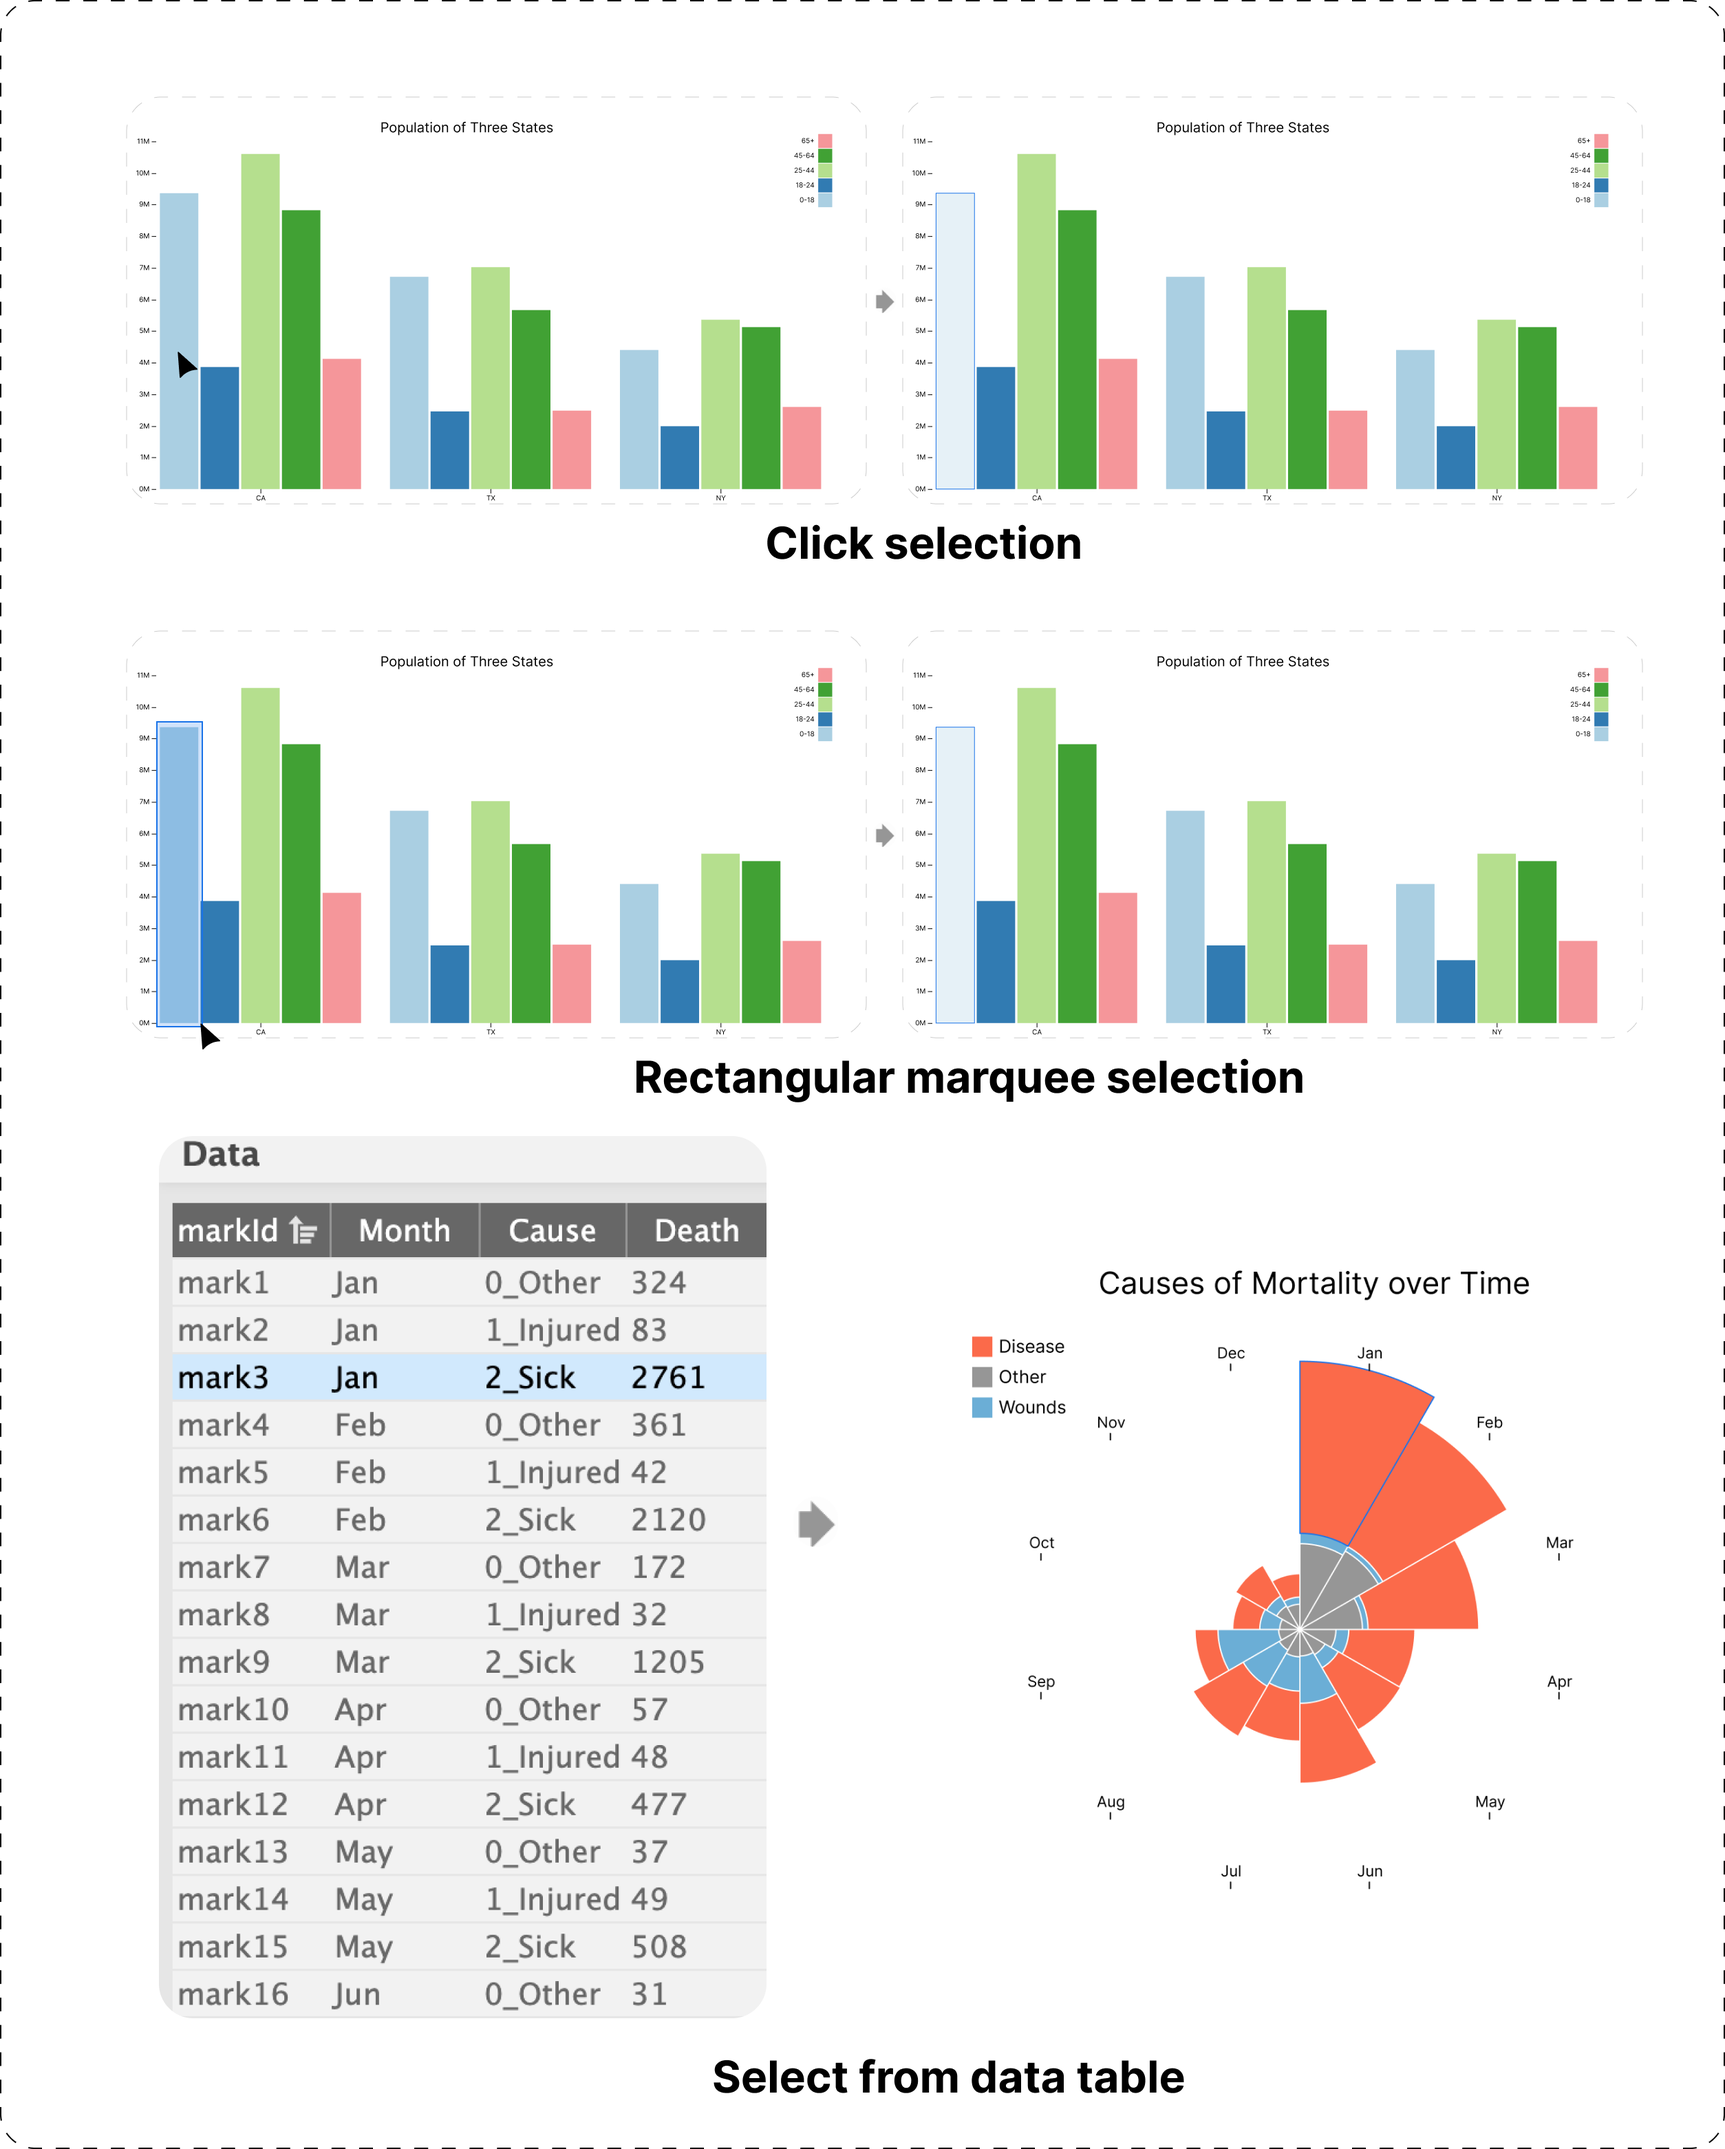
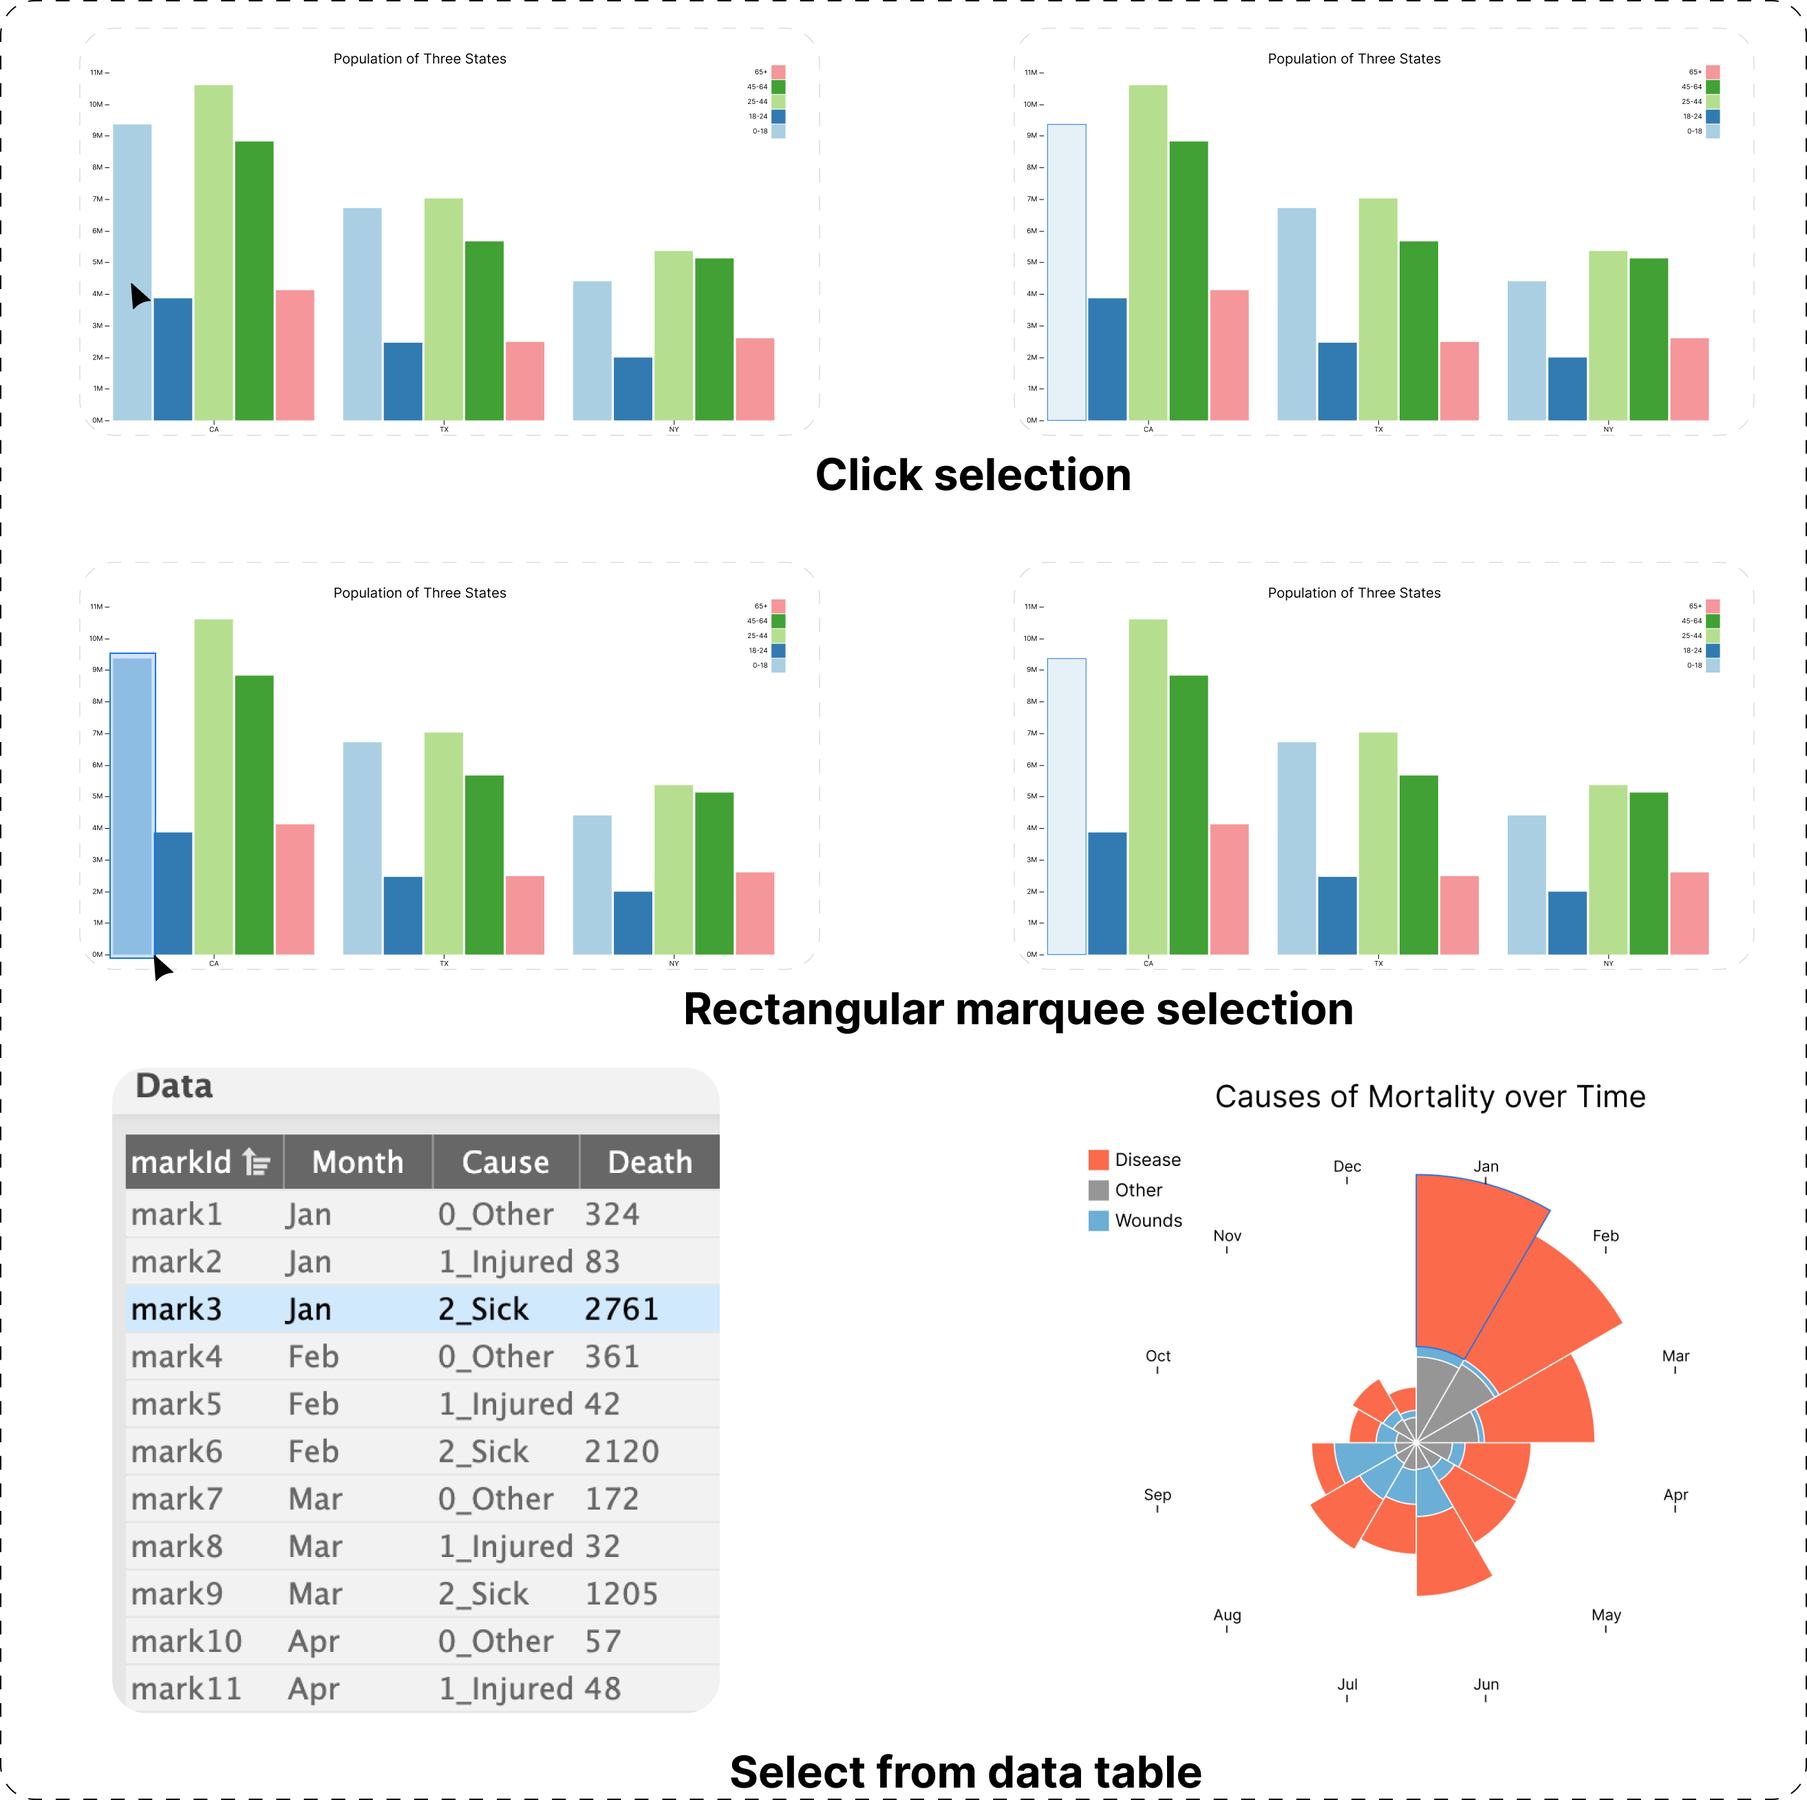
:bug: tutorial

diff --git a/src/components/Tutorial/Tutorial.jsx b/src/components/Tutorial/Tutorial.jsx
@@ -113,16 +113,15 @@ export default function Tutorial() {
           Overview
         </h1>
         <p className="tutorial-text">
-          CAST uses a series of visual representations to
-          describe and generate expressive chart animations.
+          CAST uses a series of visual representations to describe and generate
+          expressive chart animations.
         </p>
         <h1 id="UI Components Link" className="tutorialh">
           UI Components
         </h1>
         <div className="ui-text">
           <p className="tutorial-text">
-            The user interface of CAST consists of the following
-            components:
+            The user interface of CAST consists of the following components:
           </p>
           <ol className="tutorial-text-list" type="a">
             {/* 小写英文字母排序 */}
@@ -136,16 +135,15 @@ export default function Tutorial() {
               mark selection.
             </li>
             <li>
-              <strong>Animation Panel:</strong> You can preview the data animation
-              you author.
+              <strong>Animation Panel:</strong> You can preview the data
+              animation you author.
             </li>
             {/* <li>
               <strong>Tool Menu:</strong> Title menu and some common functions.
             </li> */}
             <li>
-              <strong> Keyframe Panel:</strong>Illustrating and
-              authoring how the chart is animated using static visual
-              representations.
+              <strong> Keyframe Panel:</strong>Illustrating and authoring how
+              the chart is animated using static visual representations.
             </li>
             <div className="single-img">
               <img src={panel} className="kfgroup-img" alt=""></img>
@@ -160,11 +158,11 @@ export default function Tutorial() {
         </h2>
         <p className="tutorial-text">
           Chart animations can be represented with a keyframe sequence. For each
-          mark unit, CAST selects the last frame of its
-          animation as the keyframe. As shown in the following example, the
-          animation of the facet dot plots can be represented with a series of
-          frames, and one keyframe for each cell is extracted by Canis Studio
-          <sup>2</sup> to describe this animation.
+          mark unit, CAST selects the last frame of its animation as the
+          keyframe. As shown in the following example, the animation of the
+          facet dot plots can be represented with a series of frames, and one
+          keyframe for each cell is extracted by Canis Studio to describe this
+          animation.
         </p>
         <div className="fig-cap">
           <div className="figure">
@@ -192,9 +190,8 @@ export default function Tutorial() {
           The animation is used to convey data patterns. Thus the mark unit is
           created by gradually grouping all visual marks with data variables.
           And a hierarchical structure will be generated from this grouping
-          procedure. CAST uses title bars to represent this
-          grouping hierarchy, and the gray scale of the bar indicates the depth
-          level of this group.
+          procedure. CAST uses title bars to represent this grouping hierarchy,
+          and the gray scale of the bar indicates the depth level of this group.
         </p>
         <div className="single-img">
           <img src={group} className="kfgroup-img" alt=""></img>
@@ -203,8 +200,8 @@ export default function Tutorial() {
           Representation
         </h2>
         <p className="tutorial-text">
-          CAST uses the following properties to describe the
-          animation of each mark unit:
+          CAST uses the following properties to describe the animation of each
+          mark unit:
         </p>
         <ul className="tutorial-text-list">
           <li>
@@ -241,8 +238,7 @@ export default function Tutorial() {
           Author Chart Animations
         </h1>
         <p className="tutorial-text">
-          CAST uses the following four steps to author chart
-          animations:
+          CAST uses the following four steps to author chart animations:
         </p>
         <ul className="tutorial-text-list">
           <li>
@@ -305,7 +301,7 @@ export default function Tutorial() {
         <h3 className="sub3title">Selection Tools</h3>
         <p className="tutorial-text">
           As shown in the figure. There are three ways to select marks in Canis
-          Studio<sup>2</sup>:
+          Studio:
         </p>
         <div className="single-img">
           <img src={selection} className="selection-img" alt=""></img>
@@ -390,7 +386,7 @@ export default function Tutorial() {
           <img src={sort} className="selection-img" alt=""></img>
         </div>
 
-        <h3 className="sub3title">Bind 'start time' and 'duration' according to data for items</h3>
+        <h3 className="sub3title">Bind timing according to data for items</h3>
         <ul className="tutorial-text-list">
           <li>Hover your mouse into the kerframe title</li>
           <li>Select the binding target and binding data</li>

diff --git a/src/components/Tutorial/Tutorial.css b/src/components/Tutorial/Tutorial.css
@@ -141,13 +141,13 @@ ul {
   width: 90%;
 }
 .selection-img {
-  width: 70%;
+  width: 90%;
 }
 .kfgroup-img {
   width: 100%;
 }
 .loading-img{
-  width: 50%;
+  width: 90%;
 }
 .sub3title {
   text-align: left;
